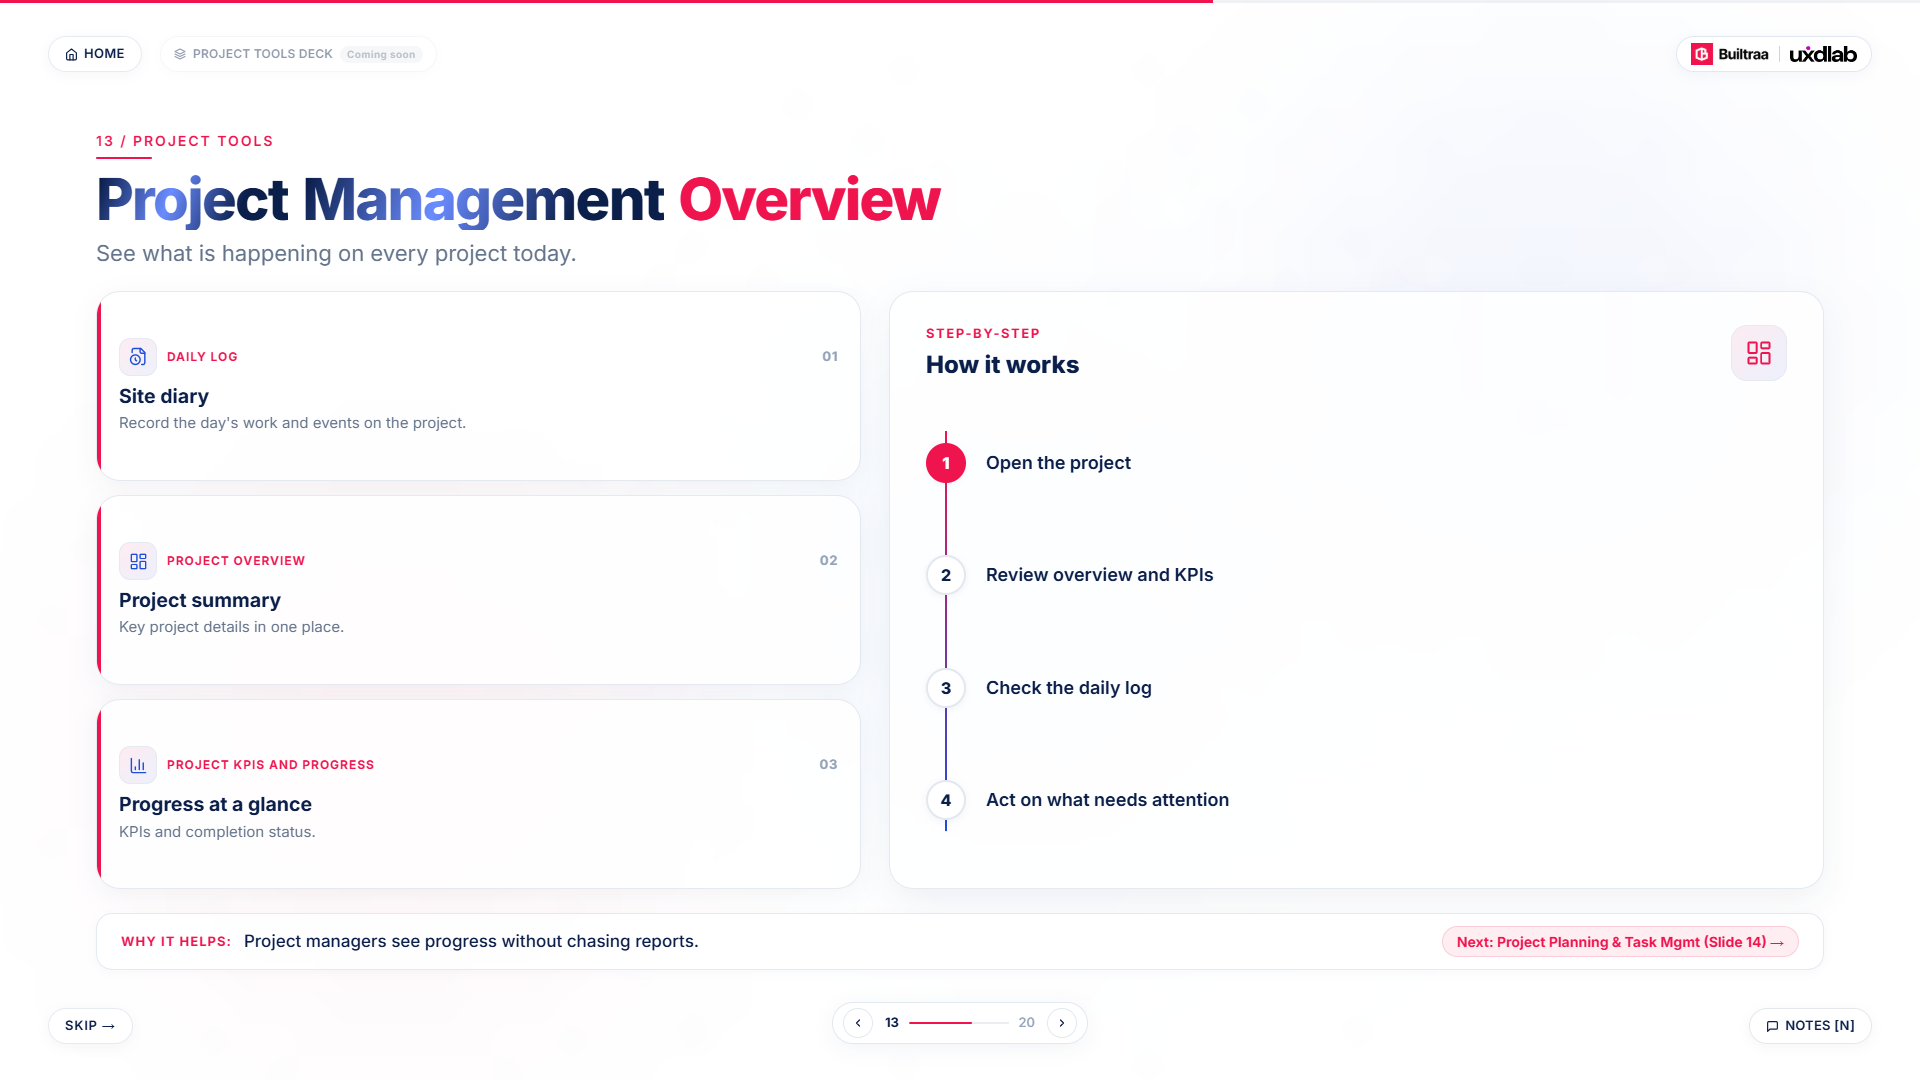
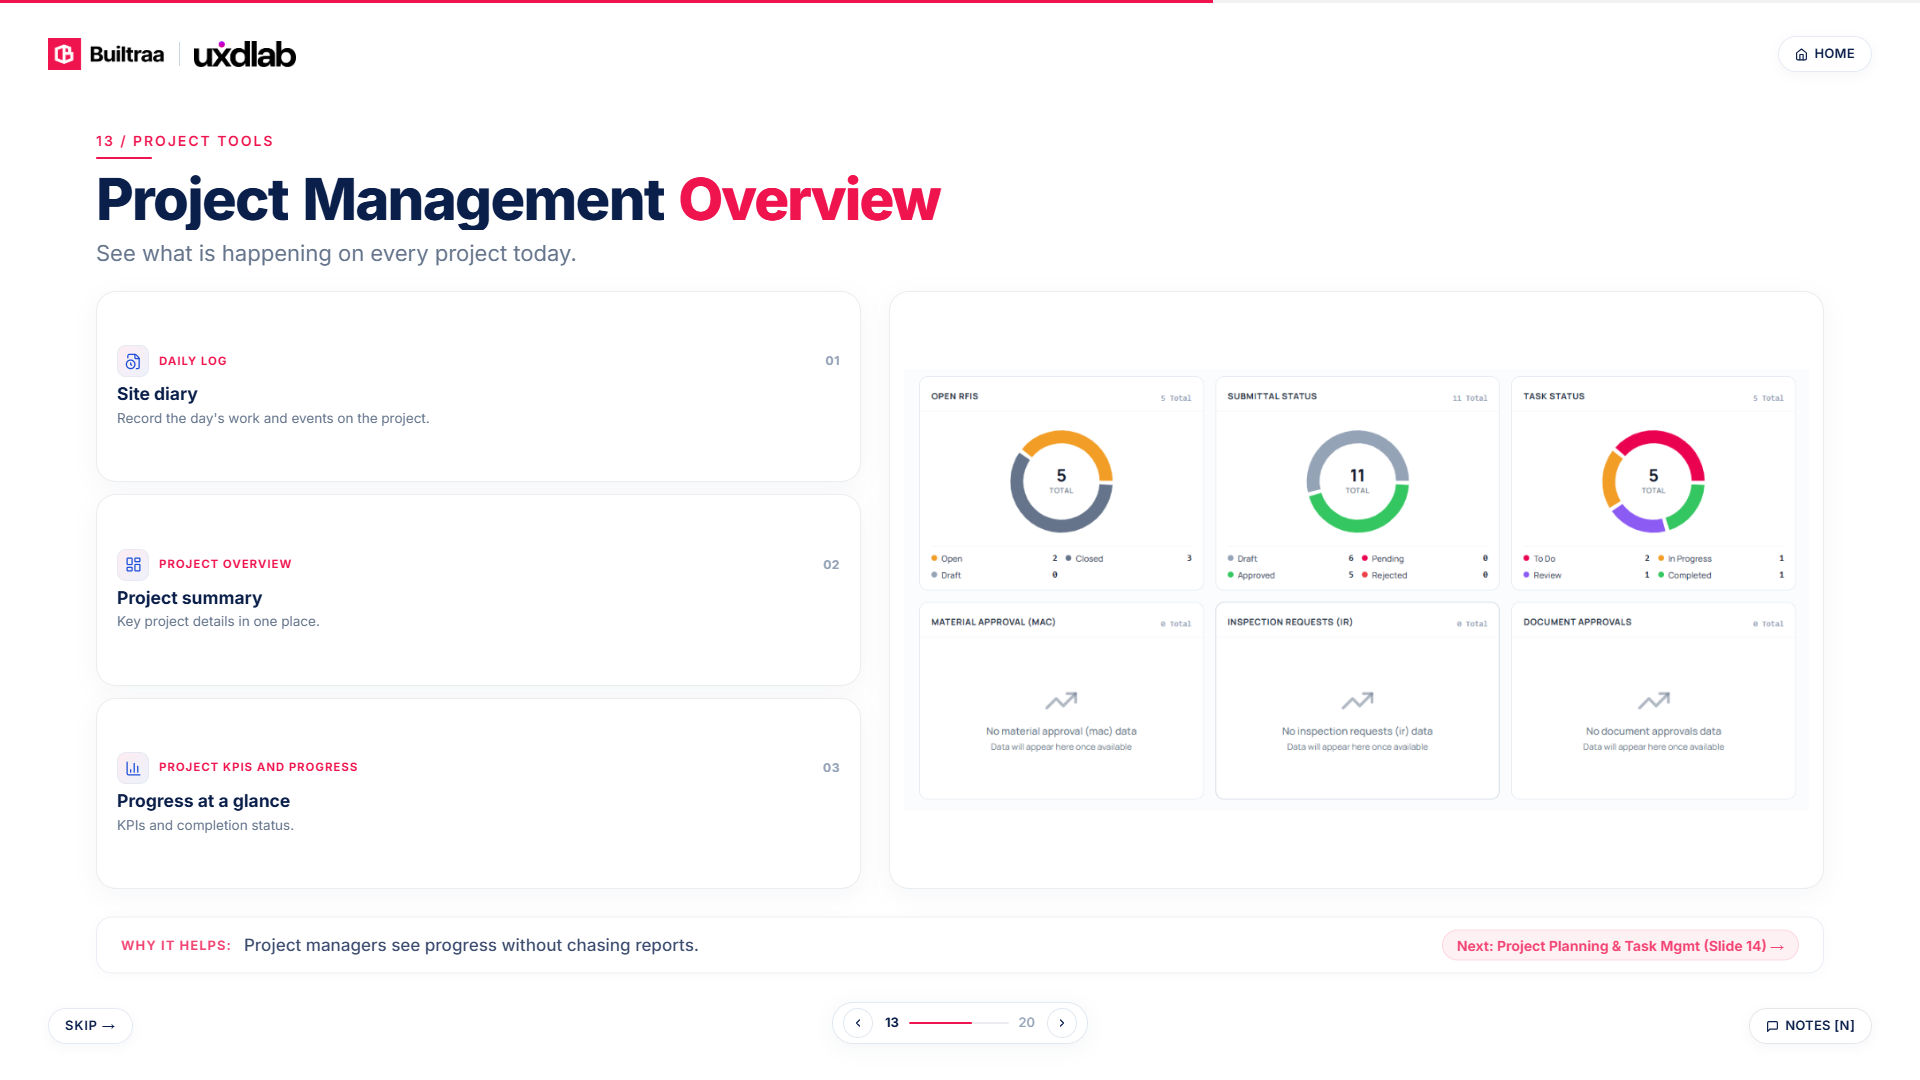
save my work

diff --git a/src/slides/Slide13.jsx b/src/slides/Slide13.jsx
@@ -1,6 +1,194 @@
 import React from 'react';
-import ModuleSlide from '../components/ModuleSlide';
+import {
+  SlideLayout,
+  SlideTitle,
+  WhyItHelpsStrip,
+} from '../components/shared';
+import { SLIDES_DATA } from '../slidesData';
 
-export default function Slide13(props) {
-  return <ModuleSlide slideNumber={13} {...props} />;
+// Slide 13 clean feature card matching Slide 2–7 style
+function Slide13FeatureCard({ icon: Icon, number, moduleLabel, title, text }) {
+  return (
+    <div
+      style={{
+        position: 'relative',
+        borderRadius: 20,
+        padding: '16px 20px',
+        border: '1px solid rgba(15, 23, 42, 0.08)',
+        background: '#FFFFFF',
+        boxShadow: '0 6px 24px rgba(11, 31, 75, 0.04)',
+        display: 'flex',
+        flexDirection: 'column',
+        justifyContent: 'center',
+        flex: 1,
+        minHeight: 0,
+        overflow: 'hidden',
+        boxSizing: 'border-box',
+      }}
+    >
+      {/* Header: Icon chip + Module Label (left) + Number (right) */}
+      <div style={{
+        display: 'flex',
+        alignItems: 'center',
+        justifyContent: 'space-between',
+        marginBottom: 6,
+      }}>
+        <div style={{ display: 'flex', alignItems: 'center', gap: 10 }}>
+          {Icon && (
+            <div style={{
+              width: 32,
+              height: 32,
+              borderRadius: 9,
+              background: 'linear-gradient(135deg, rgba(239, 20, 78, 0.08) 0%, rgba(29, 78, 216, 0.08) 100%)',
+              border: '1px solid rgba(226, 232, 240, 0.8)',
+              display: 'flex',
+              alignItems: 'center',
+              justifyContent: 'center',
+              flexShrink: 0,
+            }}>
+              <Icon size={17} color="#1D4ED8" strokeWidth={1.8} />
+            </div>
+          )}
+
+          {moduleLabel && (
+            <span style={{
+              fontSize: 11.5,
+              fontWeight: 700,
+              color: '#EF144E',
+              textTransform: 'uppercase',
+              letterSpacing: '0.08em',
+              fontFamily: "'Inter', sans-serif",
+            }}>
+              {moduleLabel}
+            </span>
+          )}
+        </div>
+
+        <span style={{
+          fontSize: 12,
+          fontWeight: 700,
+          color: '#94A3B8',
+          fontFamily: "'Inter', sans-serif",
+          letterSpacing: '0.05em',
+        }}>
+          {number}
+        </span>
+      </div>
+
+      {/* Card Title */}
+      <div style={{
+        fontSize: 17.5,
+        fontWeight: 700,
+        color: '#0B1F4B',
+        lineHeight: 1.25,
+        marginBottom: 4,
+        fontFamily: "'Inter', sans-serif",
+      }}>
+        {title}
+      </div>
+
+      {/* Card Text */}
+      <div style={{
+        fontSize: 13.5,
+        fontWeight: 400,
+        color: '#64748B',
+        lineHeight: 1.38,
+        fontFamily: "'Inter', sans-serif",
+      }}>
+        {text}
+      </div>
+    </div>
+  );
+}
+
+export default function Slide13({ slideNumber = 13, totalSlides = 20, onNavigate }) {
+  const slideData = SLIDES_DATA.find((s) => s.slideNumber === 13);
+
+  if (!slideData) {
+    return <div>Slide 13 not found</div>;
+  }
+
+  // Next slide calculation
+  let nextSlide = null;
+  const nextData = SLIDES_DATA.find((s) => s.slideNumber === 14);
+  if (nextData) {
+    const nextTitle = nextData.sectionName ||
+      (nextData.titleNavy ? `${nextData.titleNavy} ${nextData.titleBrand || ''}`.trim() : 'Next');
+    nextSlide = {
+      number: 14,
+      title: nextTitle,
+      index: 13,
+    };
+  }
+
+  return (
+    <SlideLayout
+      slideNumber={slideNumber}
+      totalSlides={totalSlides}
+      speakerNotes={slideData.speakerNotes}
+    >
+      {/* Title Block */}
+      <SlideTitle
+        eyebrow={slideData.eyebrow}
+        titleNavy={slideData.titleNavy}
+        titleBrand={slideData.titleBrand}
+        titleNavyAfter={slideData.titleNavyAfter}
+        intro={slideData.intro}
+        slideIndex={slideNumber}
+      />
+
+      {/* Main 2-Column Grid: Left Feature Cards (45%), Right Screenshot Card (55%) */}
+      <div style={{
+        display: 'flex',
+        gap: 28,
+        flex: 1,
+        alignItems: 'stretch',
+        minHeight: 0,
+        margin: '6px 0',
+      }}>
+        {/* Left Column: 3 Clean Feature Cards */}
+        <div style={{
+          width: '45%',
+          display: 'flex',
+          flexDirection: 'column',
+          gap: 12,
+          justifyContent: 'space-between',
+        }}>
+          {slideData.cards && slideData.cards.map((card, idx) => (
+            <Slide13FeatureCard
+              key={card.number || idx}
+              icon={card.icon}
+              number={card.number}
+              moduleLabel={card.moduleLabel}
+              title={card.title}
+              text={card.text}
+            />
+          ))}
+        </div>
+
+        {/* Right Column: Screenshot Card (Replaces Step-by-step panel) */}
+        <div style={{
+          width: '55%',
+          display: 'flex',
+          height: '100%',
+        }}>
+          <div className="shot-card" style={{ height: '100%', width: '100%', padding: 14 }}>
+            <img
+              src="/assets/slide13/project-overview.png"
+              alt="Builtraa Project Management Overview Dashboard"
+              className="shot-card__img"
+              loading="eager"
+            />
+          </div>
+        </div>
+      </div>
+
+      {/* Bottom: "Why it helps" One-Line Strip */}
+      <WhyItHelpsStrip
+        text={slideData.whyItHelps}
+        nextSlide={nextSlide}
+        onNavigate={onNavigate}
+      />
+    </SlideLayout>
+  );
 }
